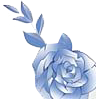
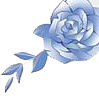
use animation using react anime

diff --git a/src/componenets/Daun.js b/src/componenets/Daun.js
@@ -1,71 +1,128 @@
-import React from "react";
+import React, { useEffect, useRef } from "react";
 
 import daunAtas01 from "../assets/images/daun-atas-01.png";
 import daunAtas02 from "../assets/images/daun-atas-02.png";
 import daunAtas03 from "../assets/images/daun-atas-03.png";
 import daunBottom03 from "../assets/images/daun-bottom-03.png";
+import daunBottom03Reverse from "../assets/images/daun-bottom-03Reverse.png";
 import daunBottom05 from "../assets/images/daun-bottom-05.png";
+import daunBottom0501 from "../assets/images/daun-bottom-0501.png";
 import daunBottom01 from "../assets/images/daun-bottom-01.png";
+import daunBottom01Scale from "../assets/images/daun-bottom-01Scale.png";
+import daunBottom01Turu from "../assets/images/daun-bottom-01Turu.png";
 import daunBottom02 from "../assets/images/daun-bottom-02.png";
 import daunBottom04 from "../assets/images/daun-bottom-04.png";
 
+import anime from "animejs";
 
 export const DaunTopLeft = () => {
+    const animationRef = useRef(null)
+
+    useEffect(() => {
+        animationRef.current = anime({
+            targets: '.animation-customTL',
+            translateX: [-100, 0],
+            translateY: [-100, 0],
+            scale: [0, 1],
+            easing: "easeInOutSine",
+            duration: 1000
+        });
+    }, []);
+
     return (
         <>
-            <div className={`absolute -top-2 left-0 animate-spinTopLeft01`}>
-                <img src={daunAtas01} className="animate-animationFirstLoadPage" />
+            <div className={`animation-customTL absolute -top-2 left-0`}>
+                <img src={daunAtas01} className="animate-spinTopLeft01" />
             </div>
-            <div className="absolute top-0 -left-2 z-10 animate-spinTopLeft02">
-                <img src={daunAtas02} className="animate-animationFirstLoadPage" />
+            <div className="animation-customTL absolute top-0 -left-2 z-10">
+                <img src={daunAtas02} className="animate-spinTopLeft02" />
             </div>
-            <div className="absolute top-3 -left-1 animate-spinTopLeft03">
-                <img src={daunAtas03} className="animate-animationFirstLoadPage" />
+            <div className="animation-customTL absolute top-3 -left-1">
+                <img src={daunAtas03} className="animate-spinTopLeft03" />
             </div>
         </>
     );
 };
 
 export const DauntTopRight = () => {
+    const animationRef = useRef(null)
+
+    useEffect(() => {
+        animationRef.current = anime({
+            targets: '.animation-customTR',
+            translateX: [100, 0],
+            translateY: [-100, 0],
+            scale: [0, 1],
+            easing: "easeInOutSine",
+            duration: 1000
+        });
+    }, []);
+
     return (
         <>
-            <div className="absolute top-16 -right-[20px] animate-spinTopRight01">
-                <img src={daunBottom05} className="-rotate-[60deg] animate-animationFirstLoadPage bg-blue-700" />
+            <div className="animation-customTR absolute top-[0] right-[40px] z-10">
+                <img src={daunBottom05} className="animate-spinTopRight01" />
             </div>
-            {/* <div className="absolute top-0 right-0 animate-spinTopRight02 z-10">
-                <img src={daunBottom03} className="-rotate-[90deg] animate-animationFirstLoadPage" />
-            </div> */}
-            {/* <div className="absolute top-3 right-9 animate-spinTopRight03">
-                <img src={daunBottom05} className="-rotate-[10deg] -scale-y-[1] animate-animationFirstLoadPage" />
-            </div> */}
+            <div className="animation-customTR absolute top-0 right-0 z-20">
+                <img src={daunBottom03} className="animate-spinTopRight02" />
+            </div>
+            <div className="animation-customTR absolute top-[45px] right-[0]">
+                <img src={daunBottom0501} className="animate-spinTopRight03" />
+            </div>
         </>
     )
 }
 
 export const DaunBottomLeft = () => {
+    const animationRef = useRef(null)
+
+    useEffect(() => {
+        animationRef.current = anime({
+            targets: '.animation-customBL',
+            translateX: [-100, 0],
+            translateY: [100, 0],
+            scale: [0, 1],
+            easing: "easeInOutSine",
+            duration: 1000
+        });
+    }, []);
+
     return (
         <>
-            <div className="absolute bottom-1 left-2 animate-spinBottomLeft01">
-                <img src={daunBottom01} className="transform rotate-[0deg] -scale-x-100 animate-animationFirstLoadPage" />
+            <div className={`animation-customBL absolute bottom-1 left-2`}>
+                <img src={daunBottom01Scale} className="animate-spinBottomLeft01" />
             </div>
-            <div className="absolute -bottom-3 left-6 animate-spinBottomLeft02">
-                <img src={daunBottom01} className="transform rotate-[90deg] animate-animationFirstLoadPage" />
+            <div className={`animation-customBL absolute bottom-1 left-2`}>
+                <img src={daunBottom01Turu} className="animate-spinBottomLeft02" />
             </div>
         </>
     )
 }
 
 export const DaunBottomRight = () => {
+    const animationRef = useRef(null)
+
+        useEffect(() => {
+        animationRef.current = anime({
+            targets: '.animation-customBR',
+            translateX: [100, 0],
+            translateY: [100, 0],
+            scale: [0, 1],
+            easing: "easeInOutSine",
+            duration: 1000
+        });
+    }, []);
+
     return (
         <>
-            <div className="absolute -bottom-2 -right-2 animate-spinBottomRight02">
-                <img src={daunBottom02} className="animate-animationFirstLoadPage" />
+            <div className="animation-customBR absolute -bottom-2 -right-2">
+                <img src={daunBottom02} className="animate-spinBottomRight02" />
             </div>
-            <div className="absolute bottom-0 right-0 z-10 animate-spinBottomRight03">
-                <img src={daunBottom03} className="animate-animationFirstLoadPage" />
+            <div className="animation-customBR absolute bottom-0 right-0 z-10">
+                <img src={daunBottom03Reverse} className="animate-spinBottomRight03" />
             </div>
-            <div className="absolute -bottom-4 right-7 animate-spinBottomRight04">
-                <img src={daunBottom04} className="animate-animationFirstLoadPage" />
+            <div className="animation-customBR absolute -bottom-4 right-7">
+                <img src={daunBottom04} className="animate-spinBottomRight04" />
             </div>
         </>
     )

diff --git a/tailwind.config.js b/tailwind.config.js
@@ -7,20 +7,6 @@ module.exports = {
     extend: {
       keyframes: {
         // interaktive animation
-        'animationFirstLoadPage': {
-          '0%': {
-            opacity: 0,
-            // transform: "scale(0)"
-            width: "0px",
-            height: "0px",
-          },
-          '100%': {
-            opacity: 1,
-            // transform: "scale(1.1)"
-            width: "100%",
-            height: "100%",
-          }
-        },
 
         // efek top left
         'spinTopLeft01': {
@@ -38,6 +24,32 @@ module.exports = {
         // efek top left
 
         // efek top right
+        'animationFirstLoadPage': {
+          '0%': {
+            opacity: 0,
+            width: "0px",
+            height: "0px",
+          },
+          '100%': {
+            opacity: 1,
+            width: "100%",
+            height: "100%",
+          }
+        },
+        'animationFirstLoadingTopRight': {
+          '0%': {
+            opacity: 0,
+            transform: "translate(0, 0) rotate(0deg)",
+            width: "0px",
+            height: "0px",
+          },
+          '100%': {
+            opacity: 1,
+            transform: "translate(0, 0) rotate(0deg)",
+            width: "9rem",
+            height: "9rem",
+          }
+        },
         'spinTopRight01': {
           '0%, 100%': { transform: "rotate(9deg)" },
           '50%': { transform: "rotate(0deg)" }
@@ -83,6 +95,7 @@ module.exports = {
         // interaktive animation
         "animationFirstLoadPage": 'animationFirstLoadPage 1s ease-in',
 
+
         // efek daun top left
         "spinTopLeft01": 'spinTopLeft01 3s ease-in-out infinite',
         "spinTopLeft02": 'spinTopLeft02 3s ease-in-out infinite',
@@ -90,6 +103,7 @@ module.exports = {
         // efek daun top left
 
         // efek daun top right
+        "animationFirstLoadingTopRight": 'animationFirstLoadingTopRight 1s ease-in',
         "spinTopRight01": 'spinTopRight01 3s ease-in-out infinite',
         "spinTopRight02": 'spinTopRight02 3s ease-in-out infinite',
         "spinTopRight03": 'spinTopRight03 3s ease-in-out infinite',

diff --git a/src/pages/Amplop.js b/src/pages/Amplop.js
@@ -1,8 +1,8 @@
-import React, { useEffect, useRef, useState } from "react";
+import React, { useEffect, useState } from "react";
 
 // images
 import ring from "../assets/images/personalia.jpg";
-import ButtonGradientGreen from "../componenets/ButtonGradientGreen";
+import ButtonGradient from "../componenets/ButtonGradient";
 import { DaunBottomLeft, DaunBottomRight, DaunTopLeft, DauntTopRight } from "../componenets/Daun";
 
 const Amplop = () => {
@@ -35,7 +35,7 @@ const Amplop = () => {
                             <div className="rounded-full border-2 overflow-hidden border-transparent object-cover">
                                 <img
                                     src={ring}
-                                    className="w-[130px] h-[130px] object-cover"
+                                    className="img w-[130px] h-[130px] object-cover"
                                 />
                             </div>
                         </div>
@@ -48,7 +48,7 @@ const Amplop = () => {
                             Wedding Apps
                         </div>
 
-                        <ButtonGradientGreen onClick={buttonHandler} />
+                        <ButtonGradient onClick={buttonHandler} />
                     </div>
                 )
             }

diff --git a/src/componenets/ButtonGradient.js b/src/componenets/ButtonGradient.js
@@ -1,0 +1,13 @@
+import React from "react";
+
+const ButtonGradient = ({onClick}) => {
+    const ok = () => {
+    }
+    return <div className="flex text-white" onClick={onClick}>
+        <button onClick={ok} className="mx-auto tracking-widest bg-gradient-to-r from-[#677081] to-[#979faf] px-7 py-2 font-semibold let">
+            Buka Surat
+        </button>
+    </div>;
+};
+
+export default ButtonGradient;

diff --git a/src/router/App.css b/src/router/App.css
@@ -12,7 +12,7 @@
 }
 
 * {
-  scrollbar-width: none;
+  /* scrollbar-width: 30p; */
 }
 
 *::-webkit-scrollbar {
